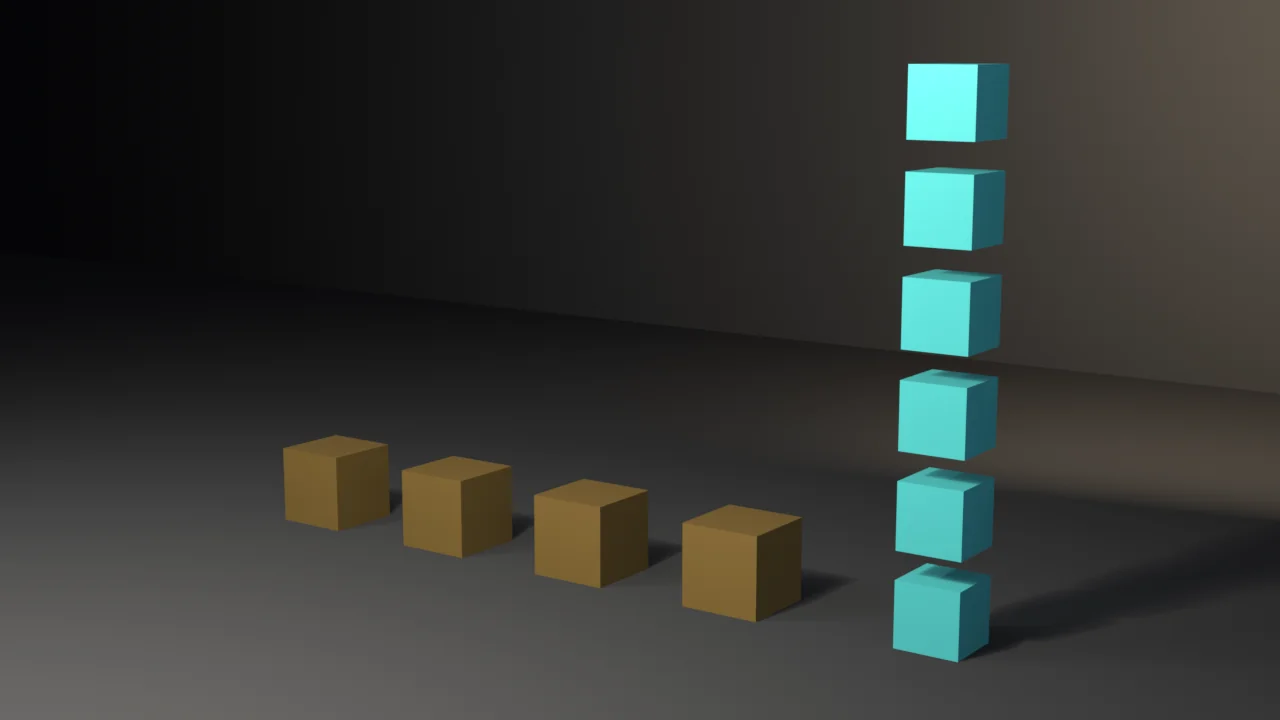
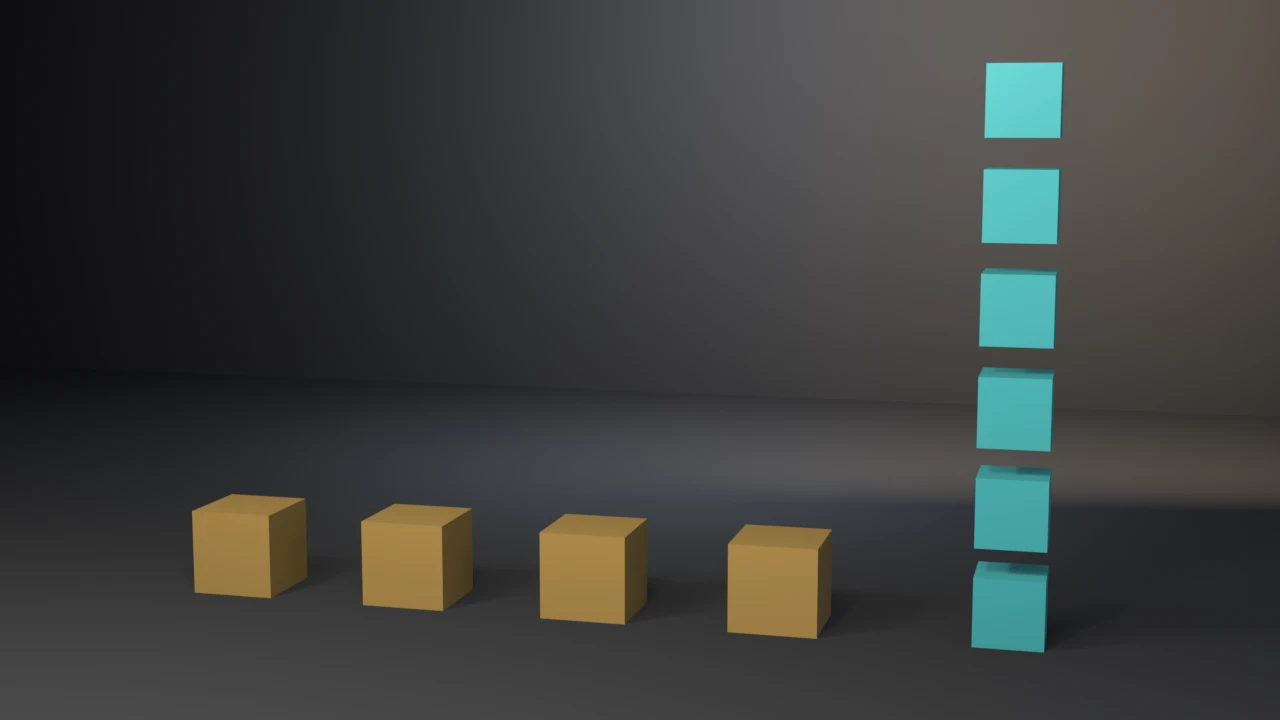
fix(examples): gn-zone-iterate still is centred, frontal and no longer blown out
Render path only. The check, its assertions and exit codes are unchanged.
docs/gallery/index.html also carries the stone-archway card alt from the
previous commit, since both regenerate in one build.

diff --git a/docs/gallery/gn-zone-iterate/index.html b/docs/gallery/gn-zone-iterate/index.html
@@ -16,13 +16,13 @@
   <meta property="og:image" content="https://tmhsdigital.github.io/Blender-Developer-Tools/gallery/assets/gn-zone-iterate-hero.webp" />
   <meta property="og:image:width" content="1280" />
   <meta property="og:image:height" content="720" />
-  <meta property="og:image:alt" content="Four ochre cubes in a row from a Repeat zone beside a vertical stack of six cyan cubes from a For Each zone." />
+  <meta property="og:image:alt" content="Four brass cubes evenly spaced in a row from a Repeat zone beside a vertical stack of six cyan cubes from a For Each zone." />
   <meta property="og:site_name" content="Blender Developer Tools" />
   <meta name="twitter:card" content="summary_large_image" />
   <meta name="twitter:title" content="gn-zone-iterate — Examples — Blender Developer Tools" />
   <meta name="twitter:description" content="Repeat Zone and For Each Element only iterate after pair_with_output. Evaluated cube counts follow 8 times (1+N) and 8 times P, not tree structure." />
   <meta name="twitter:image" content="https://tmhsdigital.github.io/Blender-Developer-Tools/gallery/assets/gn-zone-iterate-hero.webp" />
-  <meta name="twitter:image:alt" content="Four ochre cubes in a row from a Repeat zone beside a vertical stack of six cyan cubes from a For Each zone." />
+  <meta name="twitter:image:alt" content="Four brass cubes evenly spaced in a row from a Repeat zone beside a vertical stack of six cyan cubes from a For Each zone." />
   <style>
     /* fonts are deployed by the landing build (docs/fonts/) */
     @font-face { font-family: 'Barlow Condensed'; font-weight: 600; font-display: swap;
@@ -268,8 +268,8 @@
     <p>Repeat Zone and For Each Element only iterate after pair_with_output. Evaluated cube counts follow 8 times (1+N) and 8 times P, not tree structure.</p>
   </header>
   <main id="main">
-    <button class="detail-hero" id="heroZoom" type="button" aria-label="View full size: Four ochre cubes in a row from a Repeat zone beside a vertical stack of six cyan cubes from a For Each zone.">
-      <img src="../assets/gn-zone-iterate-hero.webp" alt="Four ochre cubes in a row from a Repeat zone beside a vertical stack of six cyan cubes from a For Each zone." width="1280" height="720" />
+    <button class="detail-hero" id="heroZoom" type="button" aria-label="View full size: Four brass cubes evenly spaced in a row from a Repeat zone beside a vertical stack of six cyan cubes from a For Each zone.">
+      <img src="../assets/gn-zone-iterate-hero.webp" alt="Four brass cubes evenly spaced in a row from a Repeat zone beside a vertical stack of six cyan cubes from a For Each zone." width="1280" height="720" />
     </button>
     <p class="zoom-hint">Rendered headless by the example itself — click to zoom.</p>
     <div class="callout"><span class="tag">witnesses</span> Repeat 32/24 verts/faces with X-centers at k*1.2; For Each 48/36 with Z-centers at i*0.6+0.21. Unpaired evaluates empty; For Each main Geometry passthrough is 6 verts.</div>
@@ -601,6 +601,19 @@ FOREACH_CENTERS_Z = [i * FOREACH_STEP + FOREACH_SIZE / <span class="n">2</span> 
     <span class="k">return</span> <span class="s">&quot;BLENDER_EEVEE&quot;</span> <span class="k">if</span> bpy.app.version &gt;= (<span class="n">5</span>, <span class="n">0</span>, <span class="n">0</span>) <span class="k">else</span> <span class="s">&quot;BLENDER_EEVEE_NEXT&quot;</span>
 
 
+<span class="k">def</span> _node_materials(ob):
+    <span class="s">&quot;&quot;&quot;Materials the object&#x27;s Geometry Nodes tree assigns (Set Material nodes).&quot;&quot;&quot;</span>
+    out = []
+    <span class="k">for</span> md <span class="k">in</span> ob.modifiers:
+        <span class="k">if</span> md.type == <span class="s">&quot;NODES&quot;</span> <span class="k">and</span> md.node_group <span class="k">is</span> <span class="k">not</span> <span class="k">None</span>:
+            <span class="k">for</span> node <span class="k">in</span> md.node_group.nodes:
+                <span class="k">if</span> node.bl_idname == <span class="s">&quot;GeometryNodeSetMaterial&quot;</span>:
+                    mat = node.inputs[<span class="s">&quot;Material&quot;</span>].default_value
+                    <span class="k">if</span> mat <span class="k">is</span> <span class="k">not</span> <span class="k">None</span> <span class="k">and</span> mat <span class="k">not</span> <span class="k">in</span> out:
+                        out.append(mat)
+    <span class="k">return</span> out
+
+
 <span class="k">def</span> render_still(rpt, fee, path, engine):
     scene = bpy.context.scene
 
@@ -640,16 +653,32 @@ FOREACH_CENTERS_Z = [i * FOREACH_STEP + FOREACH_SIZE / <span class="n">2</span> 
     light(<span class="s">&quot;Key&quot;</span>, (-<span class="n">4.0</span>, -<span class="n">5.0</span>, <span class="n">6.0</span>), <span class="n">520.0</span>, <span class="n">5.0</span>, (<span class="n">1.0</span>, <span class="n">0.96</span>, <span class="n">0.9</span>), (<span class="n">46</span>, <span class="n">0</span>, -<span class="n">35</span>))
     light(<span class="s">&quot;Fill&quot;</span>, (<span class="n">5.0</span>, -<span class="n">3.5</span>, <span class="n">3.0</span>), <span class="n">160.0</span>, <span class="n">9.0</span>, (<span class="n">0.75</span>, <span class="n">0.85</span>, <span class="n">1.0</span>), (<span class="n">62</span>, <span class="n">0</span>, <span class="n">50</span>))
     light(<span class="s">&quot;Wedge&quot;</span>, (<span class="n">2.5</span>, <span class="n">5.5</span>, <span class="n">4.0</span>), <span class="n">360.0</span>, <span class="n">6.0</span>, (<span class="n">1.0</span>, <span class="n">0.76</span>, <span class="n">0.5</span>), (-<span class="n">68</span>, <span class="n">0</span>, <span class="n">190</span>))
-    light(<span class="s">&quot;Glint&quot;</span>, (<span class="n">0.4</span>, -<span class="n">5.2</span>, <span class="n">5.5</span>), <span class="n">700.0</span>, <span class="n">0.9</span>, (<span class="n">1.0</span>, <span class="n">0.92</span>, <span class="n">0.75</span>), (<span class="n">42</span>, <span class="n">0</span>, <span class="n">8</span>))
+    <span class="c"># Broad, not a 0.9 m spot: the small Glint blew the top tower cube out</span>
+    <span class="c"># to near-white cyan, the brightest thing in frame by a wide margin.</span>
+    light(<span class="s">&quot;Glint&quot;</span>, (<span class="n">0.4</span>, -<span class="n">5.2</span>, <span class="n">5.5</span>), <span class="n">300.0</span>, <span class="n">3.0</span>, (<span class="n">1.0</span>, <span class="n">0.92</span>, <span class="n">0.75</span>), (<span class="n">42</span>, <span class="n">0</span>, <span class="n">8</span>))
+    <span class="c"># Rim from behind so the cube silhouettes separate from the dark wall.</span>
+    light(<span class="s">&quot;Rim&quot;</span>, (-<span class="n">1.0</span>, <span class="n">4.5</span>, <span class="n">4.5</span>), <span class="n">260.0</span>, <span class="n">4.0</span>, (<span class="n">0.70</span>, <span class="n">0.82</span>, <span class="n">1.0</span>), (-<span class="n">50</span>, <span class="n">0</span>, <span class="n">180</span>))
 
+    <span class="c"># Presentation only: the check never reads materials. 0.85 metallic in a</span>
+    <span class="c"># near-black world reflected near-black, and the brass read as mustard</span>
+    <span class="c"># card. Less metal and a warmer, brighter base let the key shape it.</span>
+    <span class="k">for</span> ob, rough, metal <span class="k">in</span> ((rpt, <span class="n">0.42</span>, <span class="n">0.55</span>), (fee, <span class="n">0.38</span>, <span class="n">0.10</span>)):
+        <span class="k">for</span> mat <span class="k">in</span> _node_materials(ob):
+            bsdf = mat.node_tree.nodes.get(<span class="s">&quot;Principled BSDF&quot;</span>)
+            <span class="k">if</span> bsdf <span class="k">is</span> <span class="k">not</span> <span class="k">None</span>:
+                bsdf.inputs[<span class="s">&quot;Metallic&quot;</span>].default_value = metal
+                bsdf.inputs[<span class="s">&quot;Roughness&quot;</span>].default_value = rough
+
+    <span class="c"># Centred on the pair and more frontal: from (6.6, -9.3) the repeat row</span>
+    <span class="c"># foreshortened into a diagonal and the tower hugged the right edge.</span>
     aim = bpy.data.objects.new(<span class="s">&quot;Aim&quot;</span>, <span class="k">None</span>)
-    aim.location = (<span class="n">0.0</span>, <span class="n">0.0</span>, <span class="n">1.50</span>)
+    aim.location = (-<span class="n">0.10</span>, <span class="n">0.0</span>, <span class="n">1.62</span>)
     aim.hide_render = <span class="k">True</span>
     scene.collection.objects.link(aim)
     cam_data = bpy.data.cameras.new(<span class="s">&quot;Cam&quot;</span>)
     cam_data.lens = <span class="n">50.0</span>
     cam = bpy.data.objects.new(<span class="s">&quot;Cam&quot;</span>, cam_data)
-    cam.location = (<span class="n">6.6</span>, -<span class="n">9.3</span>, <span class="n">3.55</span>)
+    cam.location = (<span class="n">2.7</span>, -<span class="n">10.6</span>, <span class="n">3.1</span>)
     scene.collection.objects.link(cam)
     scene.camera = cam
     track = cam.constraints.new(<span class="s">&quot;TRACK_TO&quot;</span>)
@@ -731,7 +760,7 @@ FOREACH_CENTERS_Z = [i * FOREACH_STEP + FOREACH_SIZE / <span class="n">2</span> 
   </main>
   <dialog class="lightbox" id="lightbox" aria-label="Full-size render">
     <button class="lightbox-close" type="button" autofocus>Close</button>
-    <img src="../assets/gn-zone-iterate-hero.webp" alt="Four ochre cubes in a row from a Repeat zone beside a vertical stack of six cyan cubes from a For Each zone." />
+    <img src="../assets/gn-zone-iterate-hero.webp" alt="Four brass cubes evenly spaced in a row from a Repeat zone beside a vertical stack of six cyan cubes from a For Each zone." />
   </dialog>
   <footer>
     <div class="statusbar">

diff --git a/docs/gallery/index.html b/docs/gallery/index.html
@@ -871,7 +871,7 @@
       </article>
       <article class="card" data-tags="geometry-nodes">
         <a class="card-media" href="gn-zone-iterate/" tabindex="-1" aria-hidden="true">
-          <img src="assets/gn-zone-iterate-hero.webp" alt="Four ochre cubes in a row from a Repeat zone beside a vertical stack of six cyan cubes from a For Each zone." loading="lazy" decoding="async" />
+          <img src="assets/gn-zone-iterate-hero.webp" alt="Four brass cubes evenly spaced in a row from a Repeat zone beside a vertical stack of six cyan cubes from a For Each zone." loading="lazy" decoding="async" />
         </a>
         <div class="card-body">
           <h2><a href="gn-zone-iterate/">gn-zone-iterate</a></h2>
@@ -1201,7 +1201,7 @@
       </article>
       <article class="card" data-tags="mesh export showcase">
         <a class="card-media" href="stone-archway/" tabindex="-1" aria-hidden="true">
-          <img src="assets/stone-archway-hero.webp" alt="A freestanding stone archway of coursed piers and a semicircular arch with a keystone." loading="lazy" decoding="async" />
+          <img src="assets/stone-archway-hero.webp" alt="A freestanding grey stone archway of coursed piers and a semicircular arch with a keystone, laid in pale recessed mortar joints." loading="lazy" decoding="async" />
         </a>
         <div class="card-body">
           <h2><a href="stone-archway/">stone-archway</a></h2>

diff --git a/examples/gn-zone-iterate/gn_zone_iterate.py b/examples/gn-zone-iterate/gn_zone_iterate.py
@@ -298,6 +298,19 @@ def eevee_engine_id():
     return "BLENDER_EEVEE" if bpy.app.version >= (5, 0, 0) else "BLENDER_EEVEE_NEXT"
 
 
+def _node_materials(ob):
+    """Materials the object's Geometry Nodes tree assigns (Set Material nodes)."""
+    out = []
+    for md in ob.modifiers:
+        if md.type == "NODES" and md.node_group is not None:
+            for node in md.node_group.nodes:
+                if node.bl_idname == "GeometryNodeSetMaterial":
+                    mat = node.inputs["Material"].default_value
+                    if mat is not None and mat not in out:
+                        out.append(mat)
+    return out
+
+
 def render_still(rpt, fee, path, engine):
     scene = bpy.context.scene
 
@@ -337,16 +350,32 @@ def render_still(rpt, fee, path, engine):
     light("Key", (-4.0, -5.0, 6.0), 520.0, 5.0, (1.0, 0.96, 0.9), (46, 0, -35))
     light("Fill", (5.0, -3.5, 3.0), 160.0, 9.0, (0.75, 0.85, 1.0), (62, 0, 50))
     light("Wedge", (2.5, 5.5, 4.0), 360.0, 6.0, (1.0, 0.76, 0.5), (-68, 0, 190))
-    light("Glint", (0.4, -5.2, 5.5), 700.0, 0.9, (1.0, 0.92, 0.75), (42, 0, 8))
+    # Broad, not a 0.9 m spot: the small Glint blew the top tower cube out
+    # to near-white cyan, the brightest thing in frame by a wide margin.
+    light("Glint", (0.4, -5.2, 5.5), 300.0, 3.0, (1.0, 0.92, 0.75), (42, 0, 8))
+    # Rim from behind so the cube silhouettes separate from the dark wall.
+    light("Rim", (-1.0, 4.5, 4.5), 260.0, 4.0, (0.70, 0.82, 1.0), (-50, 0, 180))
 
+    # Presentation only: the check never reads materials. 0.85 metallic in a
+    # near-black world reflected near-black, and the brass read as mustard
+    # card. Less metal and a warmer, brighter base let the key shape it.
+    for ob, rough, metal in ((rpt, 0.42, 0.55), (fee, 0.38, 0.10)):
+        for mat in _node_materials(ob):
+            bsdf = mat.node_tree.nodes.get("Principled BSDF")
+            if bsdf is not None:
+                bsdf.inputs["Metallic"].default_value = metal
+                bsdf.inputs["Roughness"].default_value = rough
+
+    # Centred on the pair and more frontal: from (6.6, -9.3) the repeat row
+    # foreshortened into a diagonal and the tower hugged the right edge.
     aim = bpy.data.objects.new("Aim", None)
-    aim.location = (0.0, 0.0, 1.50)
+    aim.location = (-0.10, 0.0, 1.62)
     aim.hide_render = True
     scene.collection.objects.link(aim)
     cam_data = bpy.data.cameras.new("Cam")
     cam_data.lens = 50.0
     cam = bpy.data.objects.new("Cam", cam_data)
-    cam.location = (6.6, -9.3, 3.55)
+    cam.location = (2.7, -10.6, 3.1)
     scene.collection.objects.link(cam)
     scene.camera = cam
     track = cam.constraints.new("TRACK_TO")
